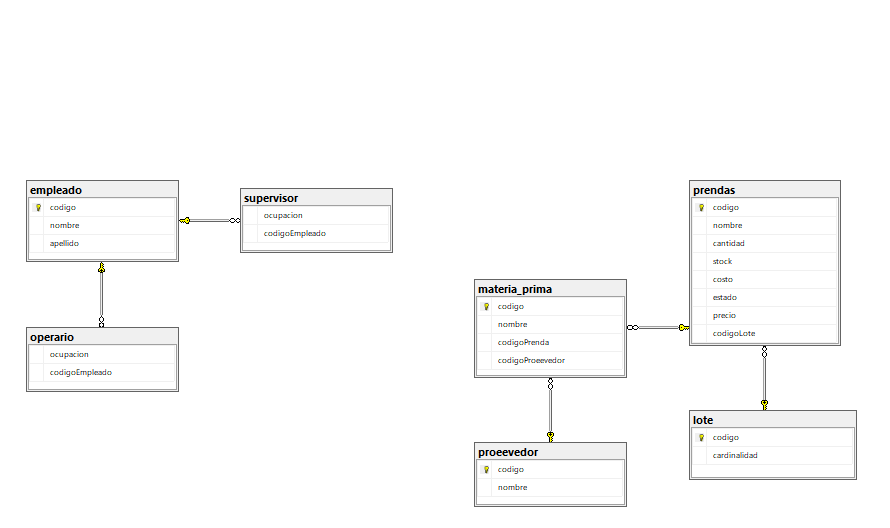
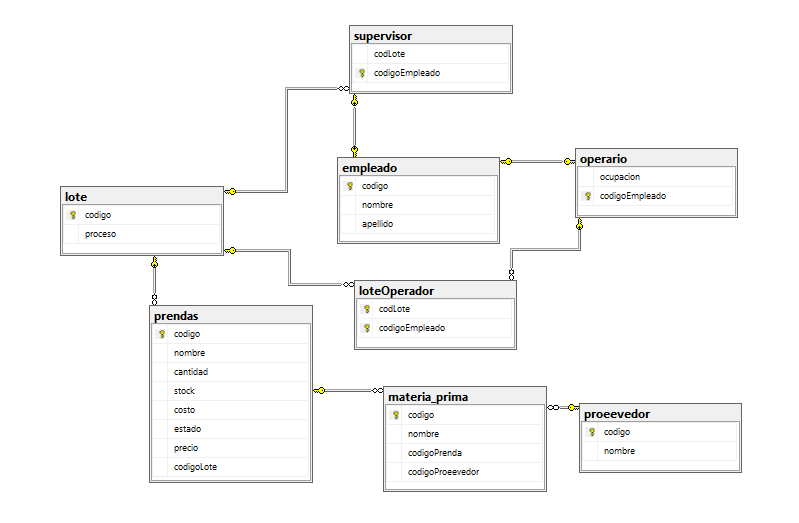
22/11/2020(2)

diff --git a/RopaSu/src/java/Negocio/Lote.java b/RopaSu/src/java/Negocio/Lote.java
@@ -4,9 +4,10 @@ package Negocio;
 
 public class Lote {
     
-    private String prenda, codigo, proceso;
+    private String prenda, codigo;
+    private int proceso;
 
-    public Lote(String prenda, String codigo, String proceso) {
+    public Lote(String prenda, String codigo, int proceso) {
         this.prenda = prenda;
         this.codigo = codigo;
         this.proceso = proceso;
@@ -28,11 +29,11 @@ public class Lote {
         this.codigo = codigo;
     }
 
-    public String getProceso() {
+    public int getProceso() {
         return proceso;
     }
 
-    public void setProceso(String proceso) {
+    public void setProceso(int proceso) {
         this.proceso = proceso;
     }
     
